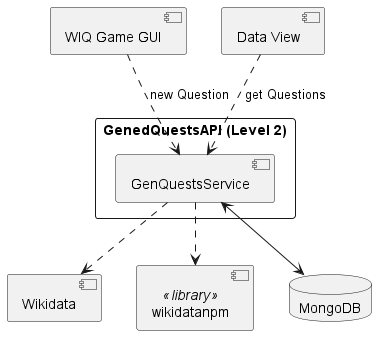
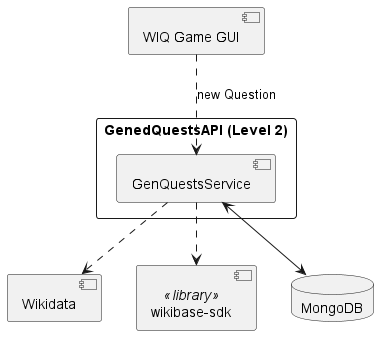
Updates

diff --git a/index.html b/index.html
@@ -447,8 +447,7 @@ body.book #toc,body.book #preamble,body.book h1.sect0,body.book .sect1>h2{page-b
 <li><a href="#section-introduction-and-goals">1. Introduction and Goals</a>
 <ul class="sectlevel2">
 <li><a href="#_requirements_overview">1.1. Requirements Overview</a></li>
-<li><a href="#_quality_goals">1.2. Quality Goals</a></li>
-<li><a href="#_stakeholders">1.3. Stakeholders</a></li>
+<li><a href="#_stakeholders">1.2. Stakeholders</a></li>
 </ul>
 </li>
 <li><a href="#section-architecture-constraints">2. Architecture Constraints</a></li>
@@ -470,6 +469,10 @@ body.book #toc,body.book #preamble,body.book h1.sect0,body.book .sect1>h2{page-b
 <li><a href="#_access_to_user_data_via_api">6.2. Access to user data via API</a></li>
 <li><a href="#_access_to_questions_data_via_api">6.3. Access to questions data via API</a></li>
 <li><a href="#_game">6.4. Game</a></li>
+<li><a href="#_runtime_scenario_1">6.5. &lt;Runtime Scenario 1&gt;</a></li>
+<li><a href="#_runtime_scenario_2">6.6. &lt;Runtime Scenario 2&gt;</a></li>
+<li><a href="#">6.7. &#8230;&#8203;</a></li>
+<li><a href="#_runtime_scenario_n">6.8. &lt;Runtime Scenario n&gt;</a></li>
 </ul>
 </li>
 <li><a href="#section-deployment-view">7. Deployment View</a>
@@ -489,7 +492,6 @@ body.book #toc,body.book #preamble,body.book h1.sect0,body.book .sect1>h2{page-b
 <li><a href="#section-quality-scenarios">10. Quality Requirements</a>
 <ul class="sectlevel2">
 <li><a href="#_quality_tree">10.1. Quality Tree</a></li>
-<li><a href="#_quality_scenarios">10.2. Quality Scenarios</a></li>
 </ul>
 </li>
 <li><a href="#section-technical-risks">11. Risks and Technical Debts</a></li>
@@ -609,10 +611,9 @@ If requirements documents exist this overview should refer to these documents.</
 </div>
 </div>
 <div class="paragraph">
-<p>The functional requirements have been grouped into the different microservices the web application will have.</p>
+<p>The functional requirements have been grouped into the different microservices the web application will have.
+==== User and Authorization Services</p>
 </div>
-<div class="sect3">
-<h4 id="_user_and_authorization_services">1.1.1. User and Authorization Services</h4>
 <div class="olist decimal">
 <ol class="decimal">
 <li>
@@ -671,9 +672,8 @@ If requirements documents exist this overview should refer to these documents.</
 </li>
 </ol>
 </div>
-</div>
 <div class="sect3">
-<h4 id="_question_service">1.1.2. Question Service</h4>
+<h4 id="_question_service">1.1.1. Question Service</h4>
 <div class="olist decimal">
 <ol class="decimal" start="5">
 <li>
@@ -718,14 +718,11 @@ If requirements documents exist this overview should refer to these documents.</
 </div>
 </li>
 <li>
-<p>The questions should be selected randomly.</p>
+<p>The questions should be selected randomly.
+=== Quality Goals</p>
 </li>
 </ol>
 </div>
-</div>
-</div>
-<div class="sect2">
-<h3 id="_quality_goals">1.2. Quality Goals</h3>
 <div class="sidebarblock arc42help">
 <div class="content">
 <div class="paragraph">
@@ -785,8 +782,9 @@ If you as an architect do not know how the quality of your work will be judged&#
 </tbody>
 </table>
 </div>
+</div>
 <div class="sect2">
-<h3 id="_stakeholders">1.3. Stakeholders</h3>
+<h3 id="_stakeholders">1.2. Stakeholders</h3>
 <div class="sidebarblock arc42help">
 <div class="content">
 <div class="paragraph">
@@ -1013,7 +1011,7 @@ The title of the table is the name of your system, the three columns contain the
 </div>
 <div class="imageblock">
 <div class="content">
-<img src="./images/Context%20Diagram.png" alt="Context Diagram" width="348" height="483">
+<img src="./images/Context%20Diagram.png" alt="Context Diagram" width="343" height="483">
 </div>
 </div>
 <table class="tableblock frame-all grid-all stretch">
@@ -1033,28 +1031,24 @@ The title of the table is the name of your system, the three columns contain the
 <td class="tableblock halign-left valign-top"><p class="tableblock"><em>Plays the game and can consult past scores</em></p></td>
 </tr>
 <tr>
-<td class="tableblock halign-left valign-top"><p class="tableblock"><em>Client</em></p></td>
-<td class="tableblock halign-left valign-top"><p class="tableblock"><em>Can access the data about players and generated questions</em></p></td>
-</tr>
-<tr>
 <td class="tableblock halign-left valign-top"><p class="tableblock"><em>WIQ Game</em></p></td>
 <td class="tableblock halign-left valign-top"><p class="tableblock"><em>Main system in which generated questions are shown and can be answered by players</em></p></td>
 </tr>
 <tr>
 <td class="tableblock halign-left valign-top"><p class="tableblock"><em>Wikidata</em></p></td>
-<td class="tableblock halign-left valign-top"><p class="tableblock"><em>External data repository from which questions are generated using the WikidataAPI</em></p></td>
+<td class="tableblock halign-left valign-top"><p class="tableblock"><em>External data repository from which questions are generated</em></p></td>
 </tr>
 <tr>
 <td class="tableblock halign-left valign-top"><p class="tableblock"><em>MongoDB</em></p></td>
-<td class="tableblock halign-left valign-top"><p class="tableblock"><em>Database for storing generated questions, players' info and scores</em></p></td>
+<td class="tableblock halign-left valign-top"><p class="tableblock"><em>Database for storing players' info and scores</em></p></td>
 </tr>
 <tr>
 <td class="tableblock halign-left valign-top"><p class="tableblock"><em>Users Info API</em></p></td>
-<td class="tableblock halign-left valign-top"><p class="tableblock"><em>Allows clients to see the info about players stored in the database</em></p></td>
+<td class="tableblock halign-left valign-top"><p class="tableblock"><em>Manages data of users, both registration/login data and their past scores</em></p></td>
 </tr>
 <tr>
 <td class="tableblock halign-left valign-top"><p class="tableblock"><em>Generated Questions API</em></p></td>
-<td class="tableblock halign-left valign-top"><p class="tableblock"><em>Allows clients to see the info about generated questions stored in the database</em></p></td>
+<td class="tableblock halign-left valign-top"><p class="tableblock"><em>Manages generation of questions from Wikidata</em></p></td>
 </tr>
 </tbody>
 </table>
@@ -1251,12 +1245,8 @@ In the best case you will get away with examples or simple signatures.</p>
 <td class="tableblock halign-left valign-top"><p class="tableblock"><em>Main window in which questions are shown and can be answered by the player. The latter can also see past scores.</em></p></td>
 </tr>
 <tr>
-<td class="tableblock halign-left valign-top"><p class="tableblock"><em>Data View</em></p></td>
-<td class="tableblock halign-left valign-top"><p class="tableblock"><em>Access to data about users and generated questions for the client.</em></p></td>
-</tr>
-<tr>
 <td class="tableblock halign-left valign-top"><p class="tableblock"><em>Generated Questions API</em></p></td>
-<td class="tableblock halign-left valign-top"><p class="tableblock"><em>In charge of generating the questions and storing their data</em></p></td>
+<td class="tableblock halign-left valign-top"><p class="tableblock"><em>In charge of generating the questions</em></p></td>
 </tr>
 <tr>
 <td class="tableblock halign-left valign-top"><p class="tableblock"><em>UsersAPI</em></p></td>
@@ -1361,7 +1351,7 @@ Leave out normal, simple, boring or standardized parts of your system</p>
 </div>
 <div class="imageblock">
 <div class="content">
-<img src="./images/Generated%20Questions%20API%20(WhiteBox).png" alt="Generated Questions API (WhiteBox)" width="387" height="337">
+<img src="./images/Generated%20Questions%20API%20(WhiteBox).png" alt="Generated Questions API (WhiteBox)" width="389" height="337">
 </div>
 </div>
 <div class="dlist">
@@ -1387,35 +1377,18 @@ Leave out normal, simple, boring or standardized parts of your system</p>
 <tbody>
 <tr>
 <td class="tableblock halign-left valign-top"><p class="tableblock"><em>GenQuestsService</em></p></td>
-<td class="tableblock halign-left valign-top"><p class="tableblock"><em>Receives different petitions regarding the generation of questions or their retrieval and responds accordingly.</em></p></td>
+<td class="tableblock halign-left valign-top"><p class="tableblock"><em>Receives different petitions regarding the generation of questions and responds accordingly.</em></p></td>
 </tr>
 <tr>
-<td class="tableblock halign-left valign-top"><p class="tableblock"><em>wikidatanpm</em></p></td>
+<td class="tableblock halign-left valign-top"><p class="tableblock"><em>wikibase-sdk</em></p></td>
 <td class="tableblock halign-left valign-top"><p class="tableblock"><em>External library that facilitates and simplifies the use of wikidata for the generation of questions.</em></p></td>
 </tr>
 <tr>
 <td class="tableblock halign-left valign-top"><p class="tableblock"><em>MongoDB</em></p></td>
-<td class="tableblock halign-left valign-top"><p class="tableblock"><em>The data of the generated questions is stored here for showing it later to the client.</em></p></td>
+<td class="tableblock halign-left valign-top"><p class="tableblock"><em>Data about users and their scores is stored here</em></p></td>
 </tr>
 </tbody>
 </table>
-<div class="dlist">
-<dl>
-<dt class="hdlist1">Additional explanation of relationships</dt>
-<dd>
-<p>The service is requested either the generation of a question or the retrieval of a subset (from WIQ Game GUI or
-Data View respectively).</p>
-</dd>
-</dl>
-</div>
-<div class="paragraph">
-<p>For the first case, it makes use of the library to generate the question, retrieves it
-for the interface to use and stores the pertinent data in the DB.</p>
-</div>
-<div class="paragraph">
-<p>In the other case, it just makes the query according to the client choosings and retrieves the data of the
-questions for the Data View to show.</p>
-</div>
 <div style="page-break-after: always;"></div>
 </div>
 </div>
@@ -1448,7 +1421,7 @@ questions for the Data View to show.</p>
 </div>
 <div class="imageblock">
 <div class="content">
-<img src="./images/users%20diagram.png" alt="users diagram" width="211" height="227">
+<img src="./images/Sequence%20diagram.png" alt="Sequence diagram" width="211" height="227">
 </div>
 </div>
 </div>
@@ -1463,7 +1436,7 @@ questions for the Data View to show.</p>
 </div>
 <div class="imageblock">
 <div class="content">
-<img src="./images/questions%20diagram.png" alt="questions diagram" width="224" height="227">
+<img src="./images/Sequence%20diagram.png" alt="Sequence diagram" width="224" height="227">
 </div>
 </div>
 </div>
@@ -1478,7 +1451,7 @@ questions for the Data View to show.</p>
 </div>
 <div class="imageblock">
 <div class="content">
-<img src="./images/game%20diagram.png" alt="game diagram" width="387" height="365">
+<img src="./images/Sequence%20diagram.png" alt="Sequence diagram" width="387" height="365">
 </div>
 </div>
 <div class="sidebarblock arc42help">
@@ -1543,6 +1516,39 @@ You will mainly capture scenarios in your documentation to communicate your arch
 </div>
 </div>
 </div>
+</div>
+<div class="sect2">
+<h3 id="_runtime_scenario_1">6.5. &lt;Runtime Scenario 1&gt;</h3>
+<div class="ulist">
+<ul>
+<li>
+<p><em>&lt;insert runtime diagram or textual description of the scenario&gt;</em></p>
+</li>
+<li>
+<p><em>&lt;insert description of the notable aspects of the interactions between the
+building block instances depicted in this diagram.&gt;</em></p>
+</li>
+</ul>
+</div>
+<div class="paragraph">
+<p>It is possible to use a sequence diagram:</p>
+</div>
+<div class="imageblock">
+<div class="content">
+<img src="./images/Sequence%20diagram.png" alt="Sequence diagram" width="332" height="335">
+</div>
+</div>
+</div>
+<div class="sect2">
+<h3 id="_runtime_scenario_2">6.6. &lt;Runtime Scenario 2&gt;</h3>
+
+</div>
+<div class="sect2">
+<h3 id="">6.7. &#8230;&#8203;</h3>
+
+</div>
+<div class="sect2">
+<h3 id="_runtime_scenario_n">6.8. &lt;Runtime Scenario n&gt;</h3>
 <div style="page-break-after: always;"></div>
 </div>
 </div>
@@ -1985,14 +1991,16 @@ concrete and measurable.</p>
 </div>
 </div>
 </div>
-<div class="imageblock">
-<div class="content">
-<img src="./images/QualityTree.png" alt="The Quality Tree of the project">
+<div class="paragraph">
+<p>@startmindmap
+* Quality
+<strong> Testability
+</strong> Usability
+<strong> Portability
+</strong> Performance
+@endmindmap
+=== Quality Scenarios</p>
 </div>
-</div>
-</div>
-<div class="sect2">
-<h3 id="_quality_scenarios">10.2. Quality Scenarios</h3>
 <div class="sidebarblock arc42help">
 <div class="content">
 <div class="paragraph">
@@ -2032,7 +2040,7 @@ more precisely down to a level of scenarios that can be discussed and evaluated.
 </div>
 </div>
 <div class="sect3">
-<h4 id="_usage_scenarios">10.2.1. Usage Scenarios</h4>
+<h4 id="_usage_scenarios">10.1.1. Usage Scenarios</h4>
 <table class="tableblock frame-all grid-all stretch">
 <colgroup>
 <col style="width: 25%;">
@@ -2077,7 +2085,7 @@ more precisely down to a level of scenarios that can be discussed and evaluated.
 </table>
 </div>
 <div class="sect3">
-<h4 id="_change_scenarios">10.2.2. Change Scenarios</h4>
+<h4 id="_change_scenarios">10.1.2. Change Scenarios</h4>
 <table class="tableblock frame-all grid-all stretch">
 <colgroup>
 <col style="width: 25%;">
